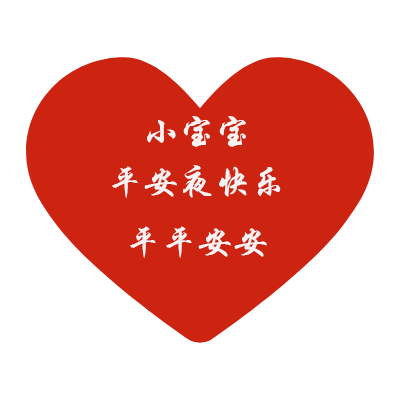
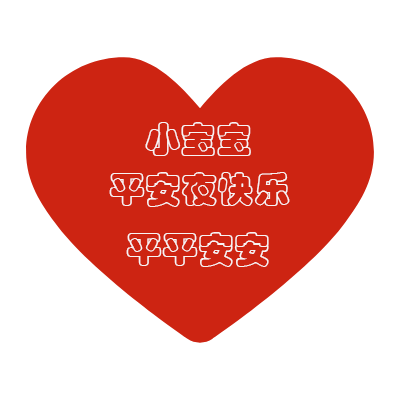
update

Changed region(s): [[0.27, 0.27, 0.72, 0.54], [0.3, 0.57, 0.69, 0.69]]

diff --git a/index.html b/index.html
@@ -14,6 +14,7 @@
             background-size: 100% 100%;
             voerflow: hidden;
         }
+
         EMBED{
             position: fixed;
             visibility: hidden;
@@ -21,8 +22,8 @@
         h1 {
             width: 450px;
             font-family: "华文行楷";
-            font-size: 60px;
-            color: #fff;
+            font-size: 4rem;
+            color: #D3220D;
             text-align: center;
             position: absolute;
             left: 50%;
@@ -54,23 +55,22 @@
         for(var i=0; i<num; i++){
             hearts.push(new Heart());
         }
-//        heartImage.src = "./1.png";
         window.addEventListener('resize', function(){
             wW = window.innerWidth;
             wH = window.innerHeight;
         });
     }
 
-    setTimeout("heartImage.src = './0.png';", 10000)
-    setTimeout("heartImage.src = './2.png';", 20000)
-    setTimeout("heartImage.src = './1.png';", 30000)
+    setTimeout("heartImage.src = './0.png';", 5000)
+    setTimeout("heartImage.src = './1.png';", 20000)
+    setTimeout("heartImage.src = './2.png';", 30000)
     function Heart(){   //构造函数
         this.x = Math.random() * wW;
         this.y = Math.random() * wH;
         this.opacity = Math.random() * .5 + .5;
         this.vel = {   //位移参数 移动量和方向
-            x: (Math.random()-.5) * 4,
-            y: (Math.random()-.5) * 4
+            x: (Math.random()-.5) * 2,
+            y: (Math.random()-.5) * 2,
         };
         heartImage.src = './heart.svg';
         this.initialW = 470;
@@ -110,22 +110,26 @@
             }
             nHeart.update();
             nHeart.draw(); //对象的绘制方法
-
-            requestAnimationFrame(render);
     }
+    function showHeart(){   //定时器 每隔1毫秒绘制一个爱心
+        render();
+        setTimeout(showHeart,1)
+    }
+    showHeart();
+
         function getApple(){
             function isOk(){
             var isLove = confirm("Do You Love Me? \n\n‘Yes’请点击确定");
                 if(isLove == true){
                     alert('送你一个苹果,么么哒！点击确定领取');
-                    heartImage.src = './apple.gif';
+                    heartImage.src = './apple.png';
                     location.href = '#';
                 }else{
                     var reIsLove = confirm("哼，你居然选了取消，再给你次机会重新选择\n\n" +
                         " Do You Love Me? \n\n‘Yes’请点击确定")
                     if (reIsLove == true){
                         alert('这才是我的好宝宝嘛 mua，送你一个苹果,么么哒！点击确定领取');
-                        heartImage.src = './apple.gif';
+                        heartImage.src = './apple.png';
                         location.href = '#';
                     }else{
                         alert("o_0")
